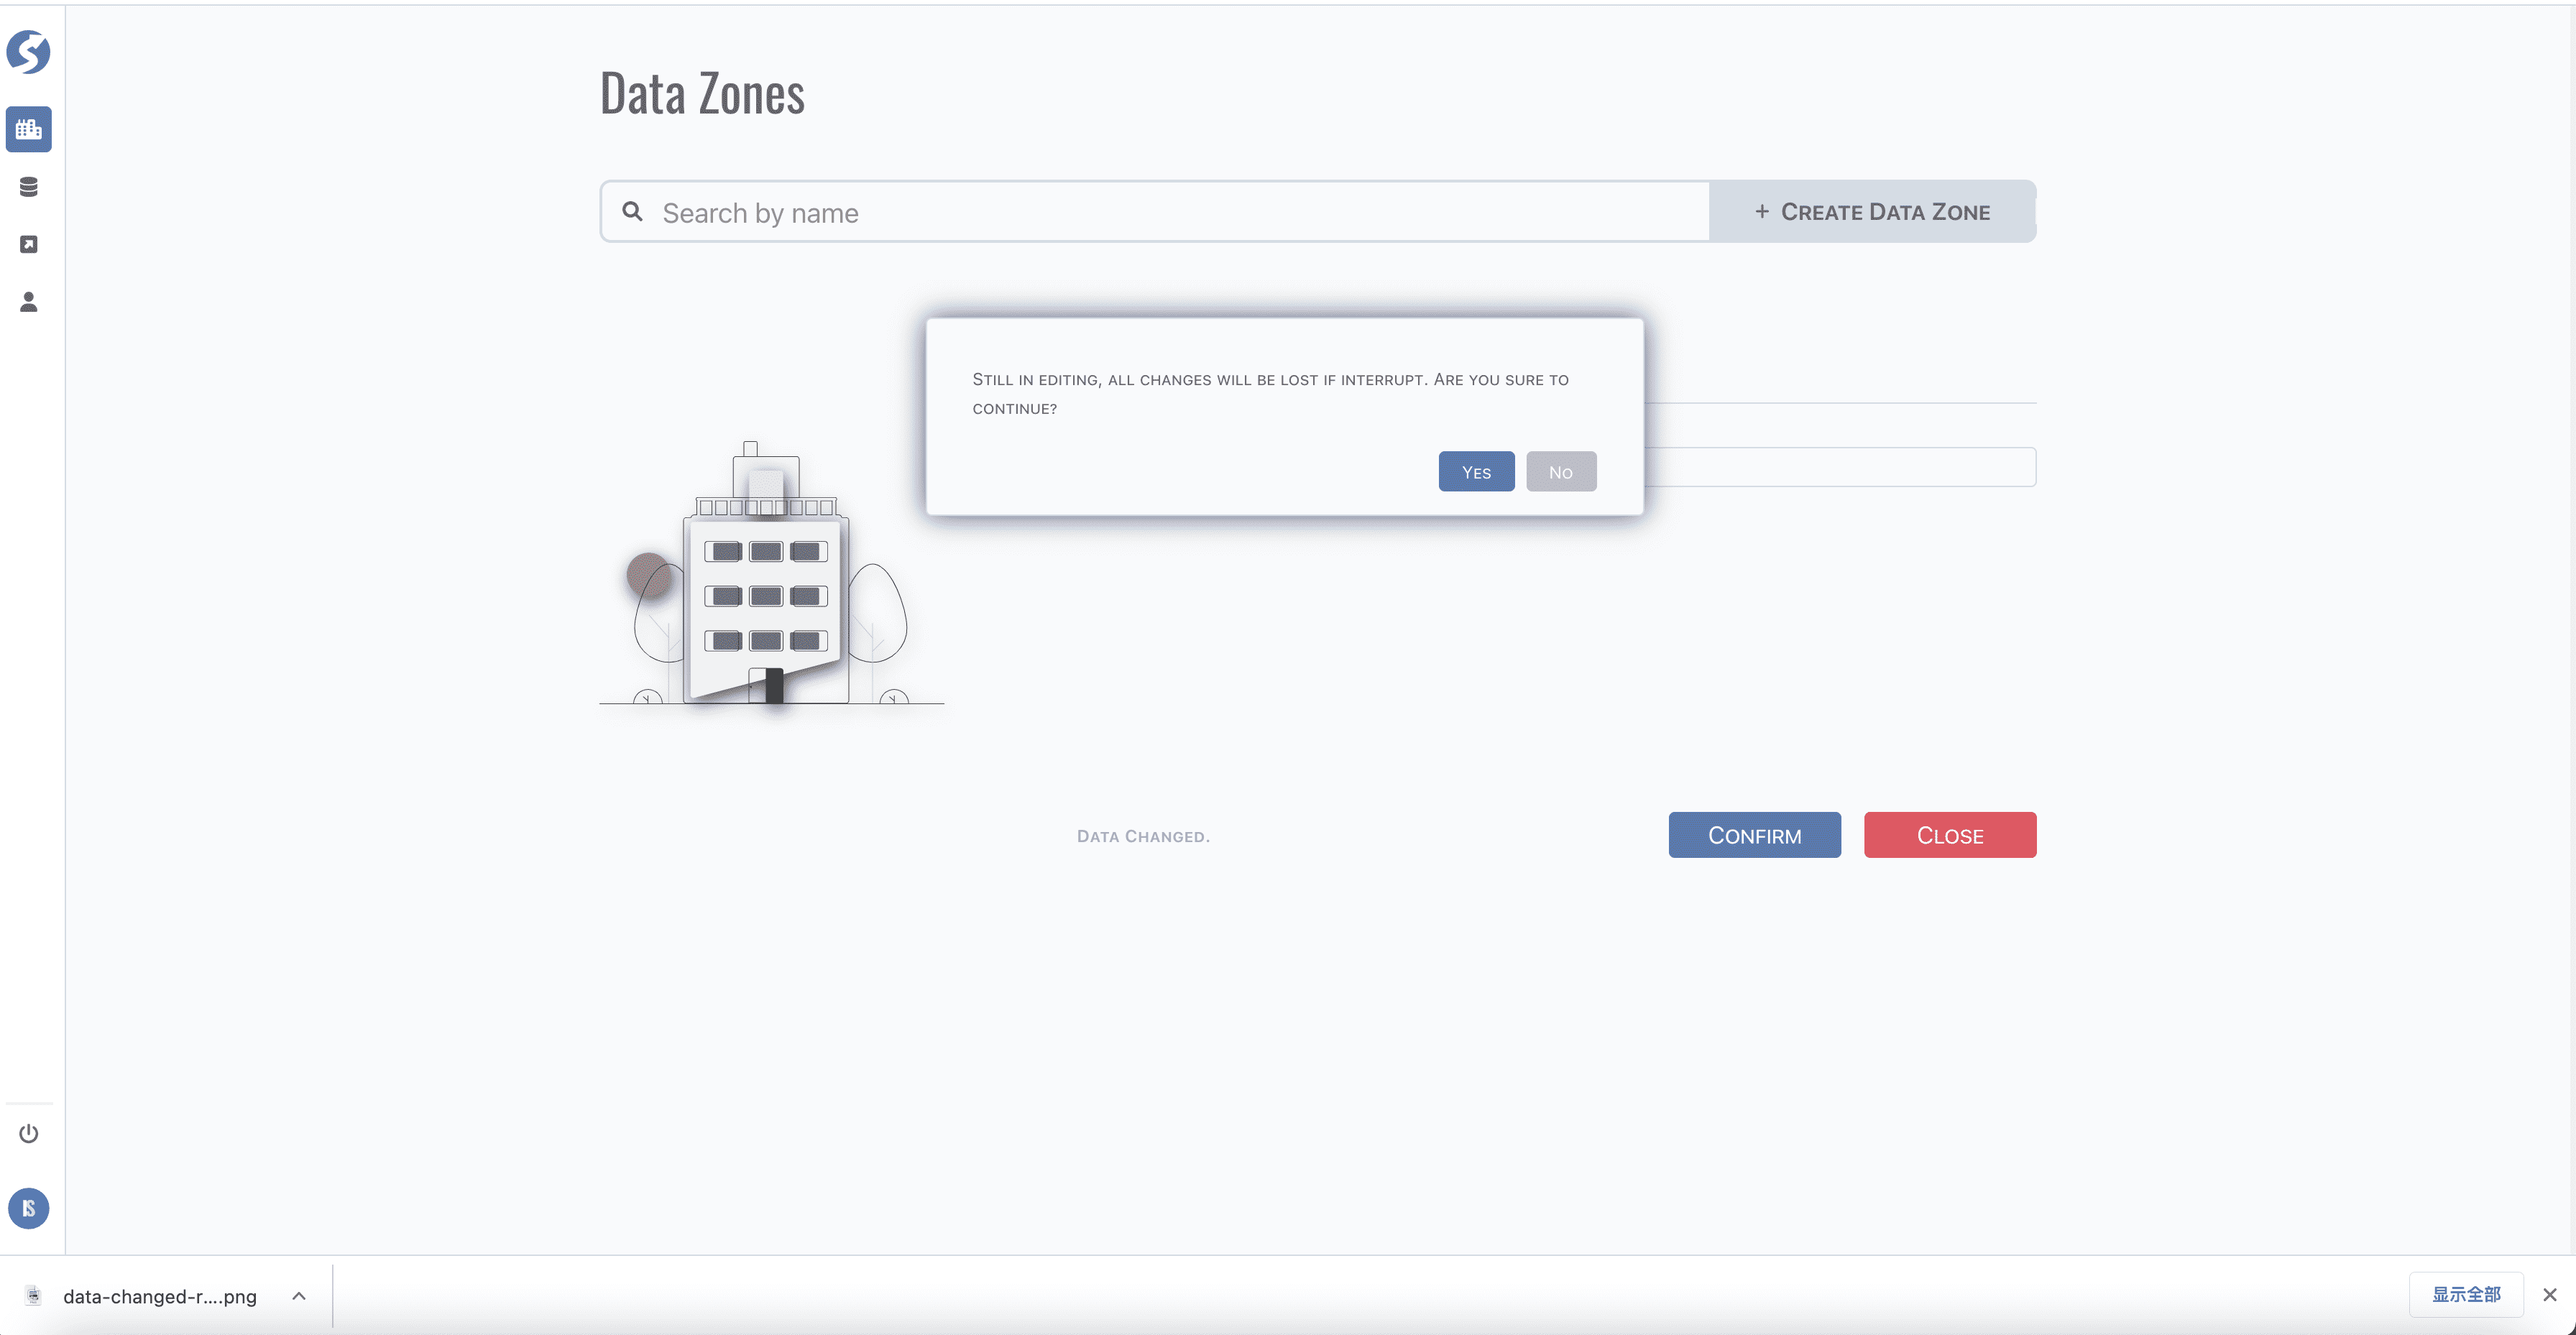
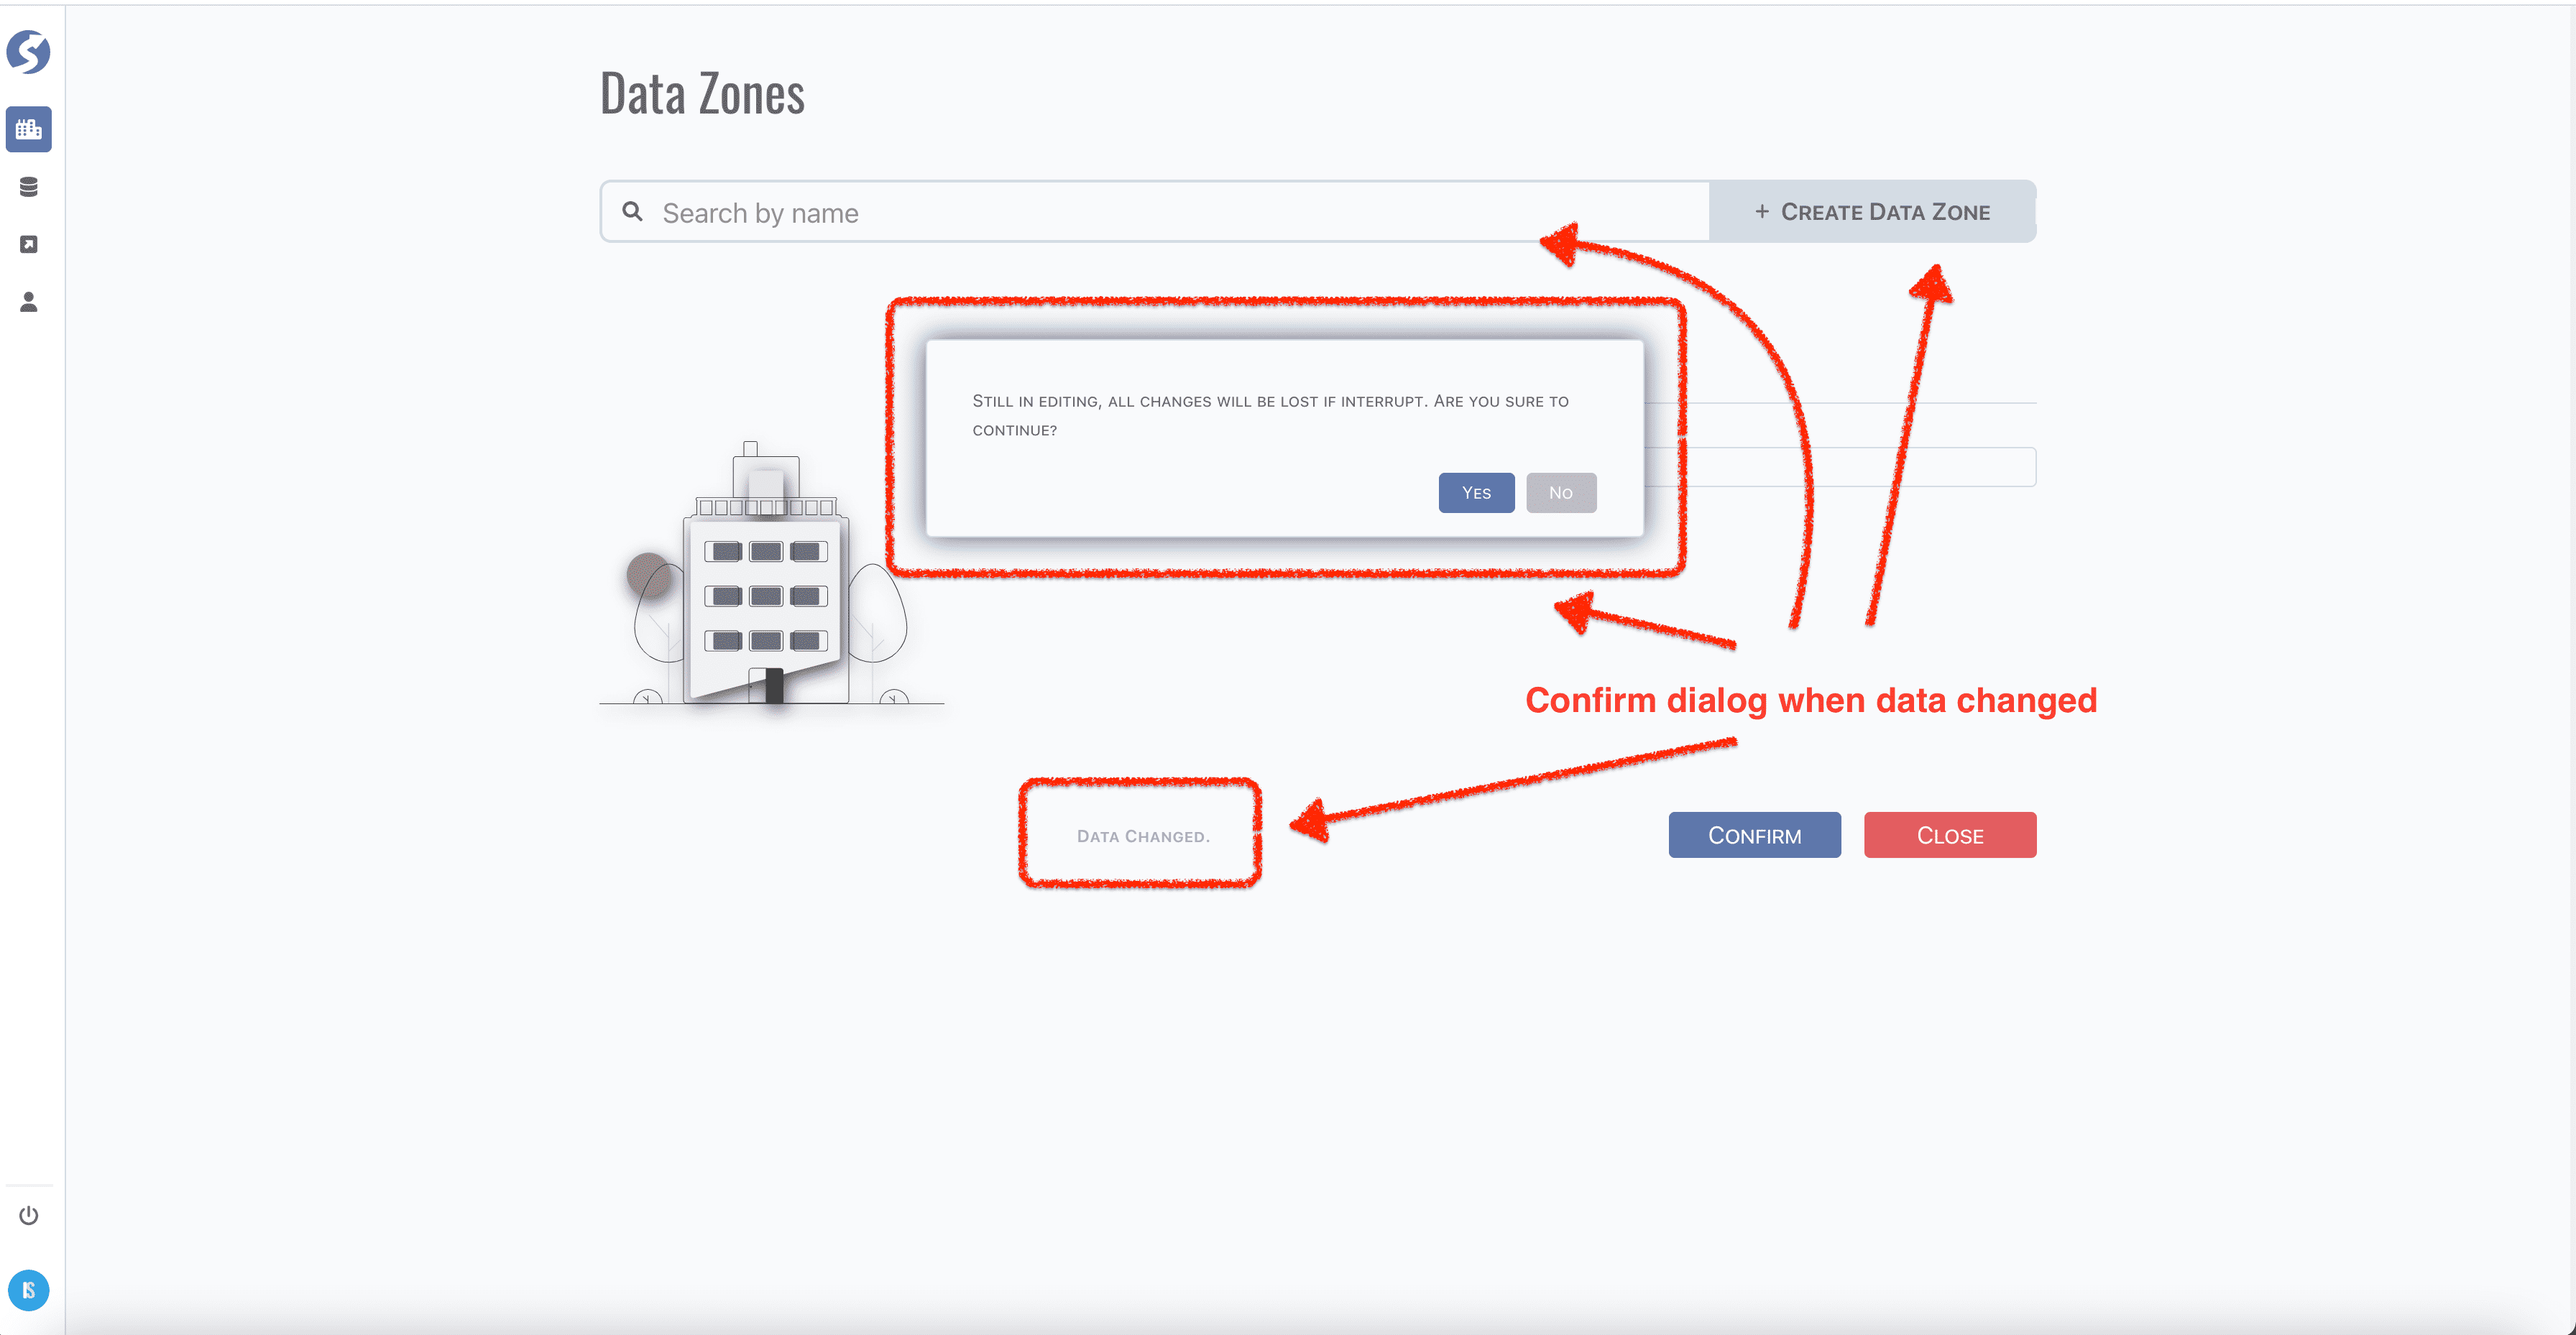
initialize

diff --git a/docs/web-client/standard-tuple-page.md b/docs/web-client/standard-tuple-page.md
@@ -1,0 +1,87 @@
+---
+id: standard-tuple-page  
+title: Standard Tuple Page  
+sidebar_position: 40
+---
+
+# Standard Tuple Page
+
+In **_Watchmen_**, definition objects are called as `Tuple`,
+
+- [Data Zone](admin/data-zone)
+- [Data Source](admin/data-source)
+- [External Writer](admin/external-writer)
+- [User Group](admin/user-group)
+- [User](admin/user)
+- [Topic](admin/topic)
+- [Enumeration](admin/enumeration)
+- [Pipeline](admin/pipeline)
+- [Space](admin/space)
+
+They all following the same interface `Tuple`, you can find the whole list and base model **[here](../tuples/tuples-index)**.  
+Most of them are using standard tuple page for finding, editing and creating.
+
+## Query
+
+Click entrance menu in menu bar,
+
+![Standard Tuple Page](images/standard-tuple-page.png)
+
+There are 5 parts in this page,
+
+- Page title,
+- Search bar, key in search keyword and press enter to fire a search,
+- Buttons, typically contains a `create` button,
+- Tuples searched out by given criteria,
+- Pagination.
+
+:::tip  
+9 cards per page.
+:::
+
+In multiple pages,
+
+![Customize Tuple Page](images/customize-tuple-page.png)
+
+- Using `Previous page` and `Next page` to switch page,
+- Sometimes there are special buttons.
+
+## Edit/Create
+
+Click `create` button to create new tuple, or click tuple card to edit existing tuple.
+
+- Create
+
+  ![Create Data Zone](images/create-tuple.png)
+
+- Edit
+
+  ![Edit Data Zone](images/edit-tuple.png)
+
+Generally, forms are same on creating and editing.
+
+:::tip  
+Note the title of tuple form, they are different when do creating or editing.
+:::
+
+### Confirm Dialog on Query or Switch Tuple
+
+A confirm dialog pops up on fire a new query or create a new tuple when current form data is changed,
+
+![Discard Changes Reminder](images/discard-changes-reminder.png)
+
+### Alert Dialog on Form Data Validation
+
+An alert dialog pops up when failed on form data validation,
+
+![Failed On Validation](images/fail-on-validation.png)
+
+### Tuple Saved 
+A saved message will be shown about 5 seconds with an animation,
+
+![Tuple Saved](images/tuple-saved.png)
+
+## Exception Case
+:::caution    
+Page for `Pipeline` is not a standard page, **[here](admin/pipeline)** for learn more.
+:::

diff --git a/docs/web-client/admin/data-zone.md b/docs/web-client/admin/data-zone.md
@@ -16,15 +16,17 @@ Data zone is only available for `Super Admin`.
 Before create anything, a data zone must be created first, tuples are organized within a data zone.
 
 ## Find a Data Zone
+
 Click `Data Zones` menu,
 
 ![Query Data Zone](images/query-data-zone.png)
 
-:::tip
+:::tip  
 9 cards per page.
 :::
 
 ## Edit Data Zone
+
 Click the `Data Zone` card,
 
 ![Edit Data Zone](images/edit-data-zone.png)
@@ -36,6 +38,7 @@ There is a reminder at the bottom of form when something is changed.
 Click `Confirm` button to save your changes, or click `Close` to discard them.
 
 ## Create Data Zone
+
 Click the `Create Data Zone` button, a data changed reminder confirm dialog pops up when still in editing and something has been changed,
 
 ![Discard Changes Reminder](images/discard-changes-reminder.png)

diff --git a/docs/tuples/tuples-index.md b/docs/tuples/tuples-index.md
@@ -5,3 +5,18 @@ sidebar_position: 1
 ---
 
 # Tuples Index
+In **_Watchmen_**, definition objects are called as `Tuple`,
+- [Data Zone](admin/data-zone)
+- [Data Source](admin/data-source)
+- [External Writer](admin/external-writer)
+- [User Group](admin/user-group)
+- [User](admin/user)
+- [Topic](admin/topic)
+- [Enumeration](admin/enumeration)
+- [Pipeline](admin/pipeline)
+- [Space](admin/space)
+- [Connected Space](console/connected-space)
+- [Subject](console/subject)
+- [Report](console/report)
+- [Dashboard](console/dashboard)
+
